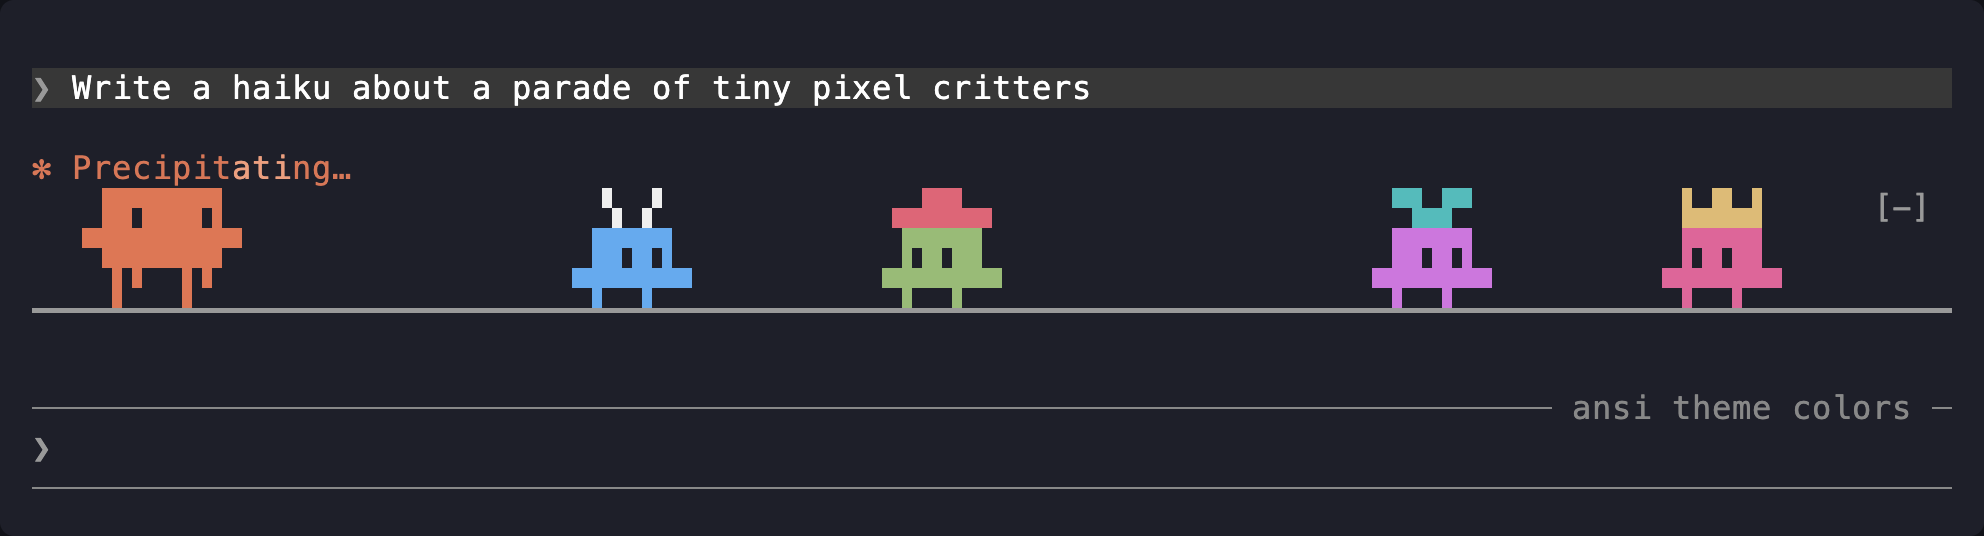
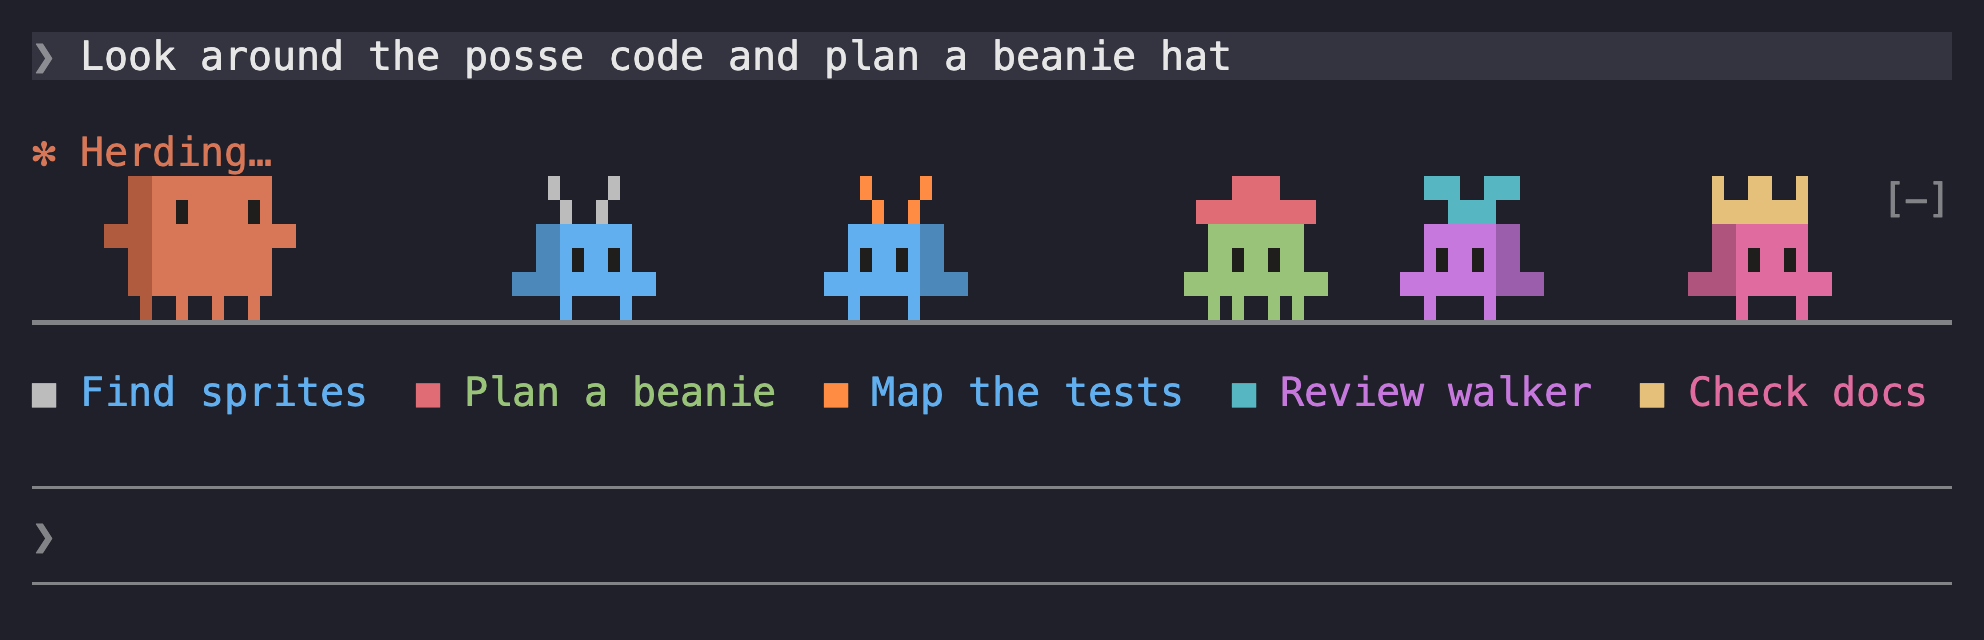
Show the new look in the README screenshot
The screenshot shows the shaded boss and five subagents, two of them
Explore agents in different hat colors, with the legend row under
them. The text lineup is drawn with the current sprites.

diff --git a/README.md b/README.md
@@ -2,14 +2,14 @@
 
 A Claude Code mod that puts a little parade above your prompt while Claude works. The boss walks back and forth, and every subagent Claude starts joins in as a creature of its own.
 
-![The boss and four subagent creatures walking above the Claude Code prompt while Claude works](docs/screenshot.png)
+![The boss and five subagent creatures walking above the Claude Code prompt while Claude works. Two of them are Explore agents in different hat colors. A legend under them lists each agent's task, marked in its hat color](docs/screenshot.png)
 
 The whole lineup, as text:
 
 ```
- ▐▛███▜▌      ▝▖▗▘        ▗▄██▄▖        ▀▙▟▀         ▙▟▙▟         ▝▀▀▘
-▝▜█████▛▘     █▜▛█         █▜▛█         █▜▛█         █▜▛█         █▜▛█
-  ▌▌ ▐▐      ▀▛▛▜▜▀       ▀▛▛▜▜▀       ▀▛▛▜▜▀       ▀▛▛▜▜▀       ▀▛▛▜▜▀
+  █▜██▜█      ▝▖▗▘        ▗▄██▄▖        ▀▙▟▀         ▙▟▙▟         ▝▀▀▘
+ ▀██████▀     █▜▛█         █▜▛█         █▜▛█         █▜▛█         █▜▛█
+  ▜▀▛▜▀▛     ▀▛▛▜▜▀       ▀▛▛▜▜▀       ▀▛▛▜▜▀       ▀▛▛▜▜▀       ▀▛▛▜▜▀
 ▔▔▔▔▔▔▔▔▔▔▔▔▔▔▔▔▔▔▔▔▔▔▔▔▔▔▔▔▔▔▔▔▔▔▔▔▔▔▔▔▔▔▔▔▔▔▔▔▔▔▔▔▔▔▔▔▔▔▔▔▔▔▔▔▔▔▔▔▔▔▔▔
 ```
 
